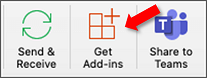
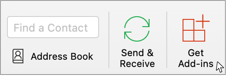
Add All Apps option and update screenshots

diff --git a/docs/outlook/sideload-outlook-add-ins-for-testing.md b/docs/outlook/sideload-outlook-add-ins-for-testing.md
@@ -1,13 +1,13 @@
 ---
 title: Sideload Outlook add-ins for testing
 description: Use sideloading to install an Outlook add-in for testing without having to first put it in an add-in catalog.
-ms.date: 03/17/2022
+ms.date: 02/24/2023
 ms.localizationpriority: medium
 ---
 
 # Sideload Outlook add-ins for testing
 
-You can use sideloading to install an Outlook add-in for testing without having to first put it in an add-in catalog.
+Sideload your Outlook add-in testing without having to first put it in an add-in catalog.
 
 > [!IMPORTANT]
 > If your Outlook add-in supports mobile, sideload the manifest using the instructions in this article for your Outlook client on the web, Windows, or Mac, then follow the guidance in the **Testing your add-ins on mobile** section of the [Add-ins for Outlook Mobile](outlook-mobile-addins.md#testing-your-add-ins-on-mobile) article.
@@ -48,19 +48,22 @@ The process for sideloading an add-in in Outlook on the web depends upon whether
 
 1. Go to [Outlook on the web](https://outlook.office.com).
 
-1. Create a new message.
+1. Select **Get add-ins** from the ribbon.
 
-1. Choose **...** from the bottom of the new message and then select **Get Add-ins** from the menu that appears.
+    ![The Get add-ins button is selected from the ribbon in Outlook on the web.](../images/outlook-sideload-ribbon-web.png)
 
-    ![Message compose window in the new Outlook on the web with Get Add-ins option highlighted.](../images/outlook-on-the-web-new-get-add-ins.png)
+    > [!IMPORTANT]
+    > If you don't see **Get add-ins** in the ribbon, you may have the simplified ribbon layout enabled. To manage your add-ins, select the ellipsis button (`...`) from the ribbon. Then, select **Get Add-ins**.
+    >
+    > ![The Get Add-ins option is selected from the ellipsis button in Outlook on the web.](../images/outlook-sideload-simplified-ribbon-web.png)
 
 1. In the **Add-Ins for Outlook** dialog box, select **My add-ins**.
 
-    ![Add-ins for Outlook dialog box in the new Outlook on the web with My add-ins selected.](../images/outlook-on-the-web-new-my-add-ins.png)
+    ![The My add-ins option selected in the Add-Ins for Outlook dialog.](../images/outlook-sideload-my-add-ins-owa.png)
 
-1. Locate the **Custom add-ins** section at the bottom of the dialog box. Select the **Add a custom add-in** link, and then select **Add from file**.
+1. Locate the **Custom add-ins** section at the bottom of the dialog box. Select the **Add a custom add-in** link, and then select **Add from File**.
 
-    ![Manage add-ins screenshot pointing to Add from a file option.](../images/outlook-sideload-desktop-add-from-file.png)
+    ![The Add from File option is selected in the Custom Add-ins section.](../images/outlook-sideload-custom-add-in.png)
 
 1. Locate the manifest file for your custom add-in and install it. Accept all prompts during the installation.
 
@@ -70,15 +73,15 @@ The process for sideloading an add-in in Outlook on the web depends upon whether
 
 1. Choose the gear icon in the top-right section of the toolbar and select **Manage add-ins**.
 
-    ![Outlook on the web screenshot pointing to Manage add-ins option.](../images/outlook-sideload-web-manage-integrations.png)
+    ![The Manage add-ins option is selected in classic Outlook on the web.](../images/outlook-sideload-web-manage-integrations.png)
 
 1. On the **Manage add-ins** page, select **Add-Ins**, and then select **My add-ins**.
 
-    ![Outlook on the web store dialog with My add-ins selected.](../images/outlook-sideload-store-select-add-ins.png)
+    ![Outlook on the web add-ins dialog with My add-ins selected.](../images/outlook-sideload-my-add-ins.png)
 
-1. Locate the **Custom add-ins** section at the bottom of the dialog box. Select the **Add a custom add-in** link, and then select **Add from file**.
+1. Locate the **Custom add-ins** section at the bottom of the dialog box. Select the **Add a custom add-in** link, and then select **Add from File**.
 
-    ![Manage add-ins screenshot pointing to Add from a file option.](../images/outlook-sideload-desktop-add-from-file.png)
+    ![The Add from File option is selected in the Custom Add-ins section.](../images/outlook-sideload-custom-add-in.png)
 
 1. Locate the manifest file for your custom add-in and install it. Accept all prompts during the installation.
 
@@ -88,48 +91,53 @@ The process for sideloading an add-in in Outlook on the web depends upon whether
 
 1. Open Outlook 2016 or later on Windows or Mac.
 
-1. Select the **Get Add-ins** button on the ribbon.
+1. Depending on your Outlook client and version, select **Get Add-ins** or **All Apps** from the ribbon.
+
+    > [!NOTE]
+    > Starting in Outlook on Windows Version 2302 (Build 16215.10000), the **All Apps** button is used to manage your add-ins and access AppSource.
 
     # [Windows](#tab/windows)
 
-    ![Outlook on Windows ribbon pointing to the Get Add-ins button.](../images/outlook-sideload-desktop-windows.png)
+    ![The Get Add-ins button is selected in an older version of Outlook on Windows.](../images/outlook-sideload-win32-get-add-ins.png)
+
+    ![The All Apps button is selected in Outlook on Windows.](../images/outlook-sideload-win32-all-apps.png)
 
     # [Mac](#tab/mac)
 
-    ![Outlook on Mac ribbon pointing to the Get Add-ins button.](../images/outlook-sideload-mac-classic.png)
+    ![The Get Add-ins button is selected in Outlook on Mac.](../images/outlook-sideload-mac-classic.png)
 
     ---
 
     > [!IMPORTANT]
-    > If you don't see the **Get Add-ins** button in your version of Outlook, do one of the following:
+    > If you don't see **Get Add-ins** or **All Apps** in your version of Outlook, do one of the following:
     >
     > # [Windows](#tab/windows)
     >
-    > - If you configured your ribbon layout to Simplified Ribbon, select the ellipsis button (`...`) from the ribbon, then select **Get Add-ins**.
+    > - If you configured your ribbon layout to Simplified Ribbon, select the ellipsis button (`...`) from the ribbon. Then, depending on your Outlook version, select **Get Add-ins** or **All Apps**.
     >
-    >   ![Outlook on Windows pointing to the Get Add-ins button from the ellipsis button.](../images/outlook-sideload-simplified-ribbon.png)
+    >   ![The Get Add-ins or All Apps option is selected from the ellipsis button in Outlook on Windows.](../images/outlook-sideload-simplified-ribbon-windows.png)
     >
-    > - Select the **Store** button on the ribbon, if available.
+    > - Select **Store** from the ribbon, if available.
     >
-    > - Select the **File** menu, then select the **Manage Add-ins** button on the **Info** tab to open the **Add-ins** dialog in Outlook on the web. You can see more about the web experience in the previous section [Sideload an add-in in Outlook on the web](#outlook-on-the-web).
+    > - Select the **File** menu, then select **Manage Add-ins** from the **Info** tab to open the **Add-ins** dialog in Outlook on the web. To learn more about the web experience, see [Sideload an add-in in Outlook on the web](../outlook/sideload-outlook-add-ins-for-testing.md#outlook-on-the-web).
     >
     > # [Mac](#tab/mac)
     >
     > - Select the ellipsis button (`...`) from the ribbon, then select **Get Add-ins**.
     >
-    >   ![Outlook on Mac pointing to the Get Add-ins button from the ellipsis button.](../images/outlook-sideload-deskop-mac.png)
+    >   ![The Get Add-ins option is selected from the ellipsis button in Outlook on Mac.](../images/outlook-sideload-new-mac.png)
     >
-    > - Select the **Store** button on the ribbon, if available.
+    > - Select **Store** from the ribbon, if available.
     >
     > ---
 
-1. If there are tabs near the top of the dialog, ensure that the **Add-ins** tab is selected. Choose **My add-ins**.
+1. If there are tabs near the top of the dialog, ensure that the **Add-ins** tab is selected. Then, choose **My add-ins**.
 
-    ![Outlook 2016 store dialog with My add-ins selected.](../images/outlook-sideload-store-select-add-ins.png)
+    ![Outlook 2016 add-ins dialog with My add-ins selected.](../images/outlook-sideload-my-add-ins.png)
 
-1. Locate the **Custom add-ins** section at the bottom of the dialog. Select the **Add a custom add-in** link, and then select **Add from file**.
+1. Locate the **Custom add-ins** section at the bottom of the dialog. Select the **Add a custom add-in** link, and then select **Add from File**.
 
-    ![Store screenshot pointing to Add from a file option.](../images/outlook-sideload-desktop-add-from-file.png)
+    ![The Add from File option is selected in the Custom add-ins section.](../images/outlook-sideload-custom-add-in.png)
 
 1. Locate the manifest file for your custom add-in and install it. Accept all prompts during the installation.
 
@@ -137,7 +145,7 @@ The process for sideloading an add-in in Outlook on the web depends upon whether
 
 1. Open Outlook 2013 on Windows.
 
-1. Select the **File** menu, then select the **Manage Add-ins** button on the **Info** tab. Outlook will open the web version in a browser.
+1. Select the **File** menu, then select **Manage Add-ins** from the **Info** tab. Outlook will open the web version in a browser.
 
 1. Follow the steps in the [Sideload an add-in in Outlook on the web](#outlook-on-the-web) section according to your version of Outlook on the web.
 

diff --git a/docs/outlook/troubleshoot-outlook-add-in-activation.md b/docs/outlook/troubleshoot-outlook-add-in-activation.md
@@ -1,7 +1,7 @@
 ---
 title: Troubleshoot Outlook contextual add-in activation
 description: Possible reasons your add-in doesn't activate as you expect.
-ms.date: 10/07/2022
+ms.date: 02/24/2023
 ms.localizationpriority: medium
 ---
 
@@ -55,13 +55,11 @@ Any one of the Outlook rich clients can disable an add-in for performance reason
 > [!NOTE]
 > Only Outlook rich clients monitor resource usage, but disabling an add-in in an Outlook rich client also disables the add-in in Outlook on the web and mobile devices.
 
-Use one of the following approaches to verify whether an add-in is disabled.
+Check your list of installed add-ins to verify whether an add-in is disabled.
 
-- In Outlook on the web, sign in directly to the email account, then choose **Get Add-ins** from the ribbon.
+- For instructions on how to view your add-ins in Outlook on Windows or on Mac, see [Get an Office Add-in for Outlook](https://support.microsoft.com/office/1ee261f9-49bf-4ba6-b3e2-2ba7bcab64c8).
 
-- In Outlook on Windows, choose **More Apps** from the ribbon, then select **Get Add-ins**.
-
-- In Outlook on Mac, choose the ellipsis button (`...`) from the ribbon, then select **Get Add-ins**.
+- In Outlook on the web, select **Get Add-ins** from the ribbon. To learn more, see [Using add-ins in Outlook on the web](https://support.microsoft.com/office/8f2ce816-5df4-44a5-958c-f7f9d6dabdce).
 
 ## Does the tested item support Outlook add-ins? Is the selected item delivered by a version of Exchange Server that is at least Exchange 2013?
 
@@ -202,16 +200,19 @@ If you use an **ItemHasRegularExpressionMatch** activation rule, verify whether 
         ```vb
         ?ActiveExplorer.Selection.Item(1).HTMLBody
         ```
+
         - The plain text body of the message or appointment item selected in the Outlook explorer:
 
         ```vb
         ?ActiveExplorer.Selection.Item(1).Body
         ```
+
         - The HTML body of the message or appointment item opened in the current Outlook inspector:
 
         ```vb
         ?ActiveInspector.CurrentItem.HTMLBody
         ```
+
         - The plain text body of the message or appointment item opened in the current Outlook inspector:
 
         ```vb
@@ -248,7 +249,7 @@ This section applies to all activation rules that use regular expressions -- par
     |Item body is plain text|1.5 KB|3 KB|
     |Item body is HTML|3 KB|3 KB|
 
-- Time spent on evaluating all regular expressions of a read add-in for an Outlook rich client: By default, for each read add-in, Outlook must finish evaluating all the regular expressions in its activation rules within 1 second. Otherwise Outlook retries up to three times and disables the add-in if Outlook cannot complete the evaluation. Outlook displays a message in the notification bar that the add-in has been disabled. The amount of time available for your regular expression can be modified by setting a group policy or a registry key. 
+- Time spent on evaluating all regular expressions of a read add-in for an Outlook rich client: By default, for each read add-in, Outlook must finish evaluating all the regular expressions in its activation rules within 1 second. Otherwise Outlook retries up to three times and disables the add-in if Outlook cannot complete the evaluation. Outlook displays a message in the notification bar that the add-in has been disabled. The amount of time available for your regular expression can be modified by setting a group policy or a registry key.
 
    > [!NOTE]
    > If the Outlook rich client disables a read add-in, the read add-in is not available for use for the same mailbox on the Outlook rich client, and Outlook on the web and mobile devices.

diff --git a/docs/outlook/privacy-and-security.md b/docs/outlook/privacy-and-security.md
@@ -1,7 +1,7 @@
 ---
 title: Privacy, permissions, and security for Outlook add-ins
 description: Learn how to manage privacy, permissions, and security in an Outlook add-in.
-ms.date: 10/07/2022
+ms.date: 02/24/2023
 ms.localizationpriority: high
 ---
 
@@ -49,14 +49,18 @@ The following figure shows the four levels of permissions and describes the capa
 
 ## Optional connected experiences
 
-End users and IT admins can turn off [optional connected experiences in Office](/deployoffice/privacy/optional-connected-experiences) desktop and mobile clients. For Outlook add-ins, the impact of disabling the **Optional connected experiences** setting depends on the client but usually means that user-installed add-ins and access to the Office Store aren't allowed. Add-ins deployed by an organization's IT admin through [Centralized Deployment](/microsoft-365/admin/manage/centralized-deployment-of-add-ins) will still be available.
+End users and IT admins can turn off [optional connected experiences in Office](/deployoffice/privacy/optional-connected-experiences) desktop and mobile clients. For Outlook add-ins, the impact of disabling the **Optional connected experiences** setting depends on the client, but it usually means that user-installed add-ins and access to the AppSource aren't allowed. Add-ins deployed by an organization's IT admin through [Centralized Deployment](/microsoft-365/admin/manage/centralized-deployment-of-add-ins) will still be available.
 
-- Windows\*, Mac: The **Get Add-ins** button isn't displayed so users can no longer manage their add-ins or access the Office Store.
-- Android, iOS: The **Get Add-ins** dialog shows only admin-deployed add-ins.
-- Browser: Availability of add-ins and access to the Store are unaffected so users can continue to [manage their add-ins](https://support.microsoft.com/office/8f2ce816-5df4-44a5-958c-f7f9d6dabdce), including admin-deployed ones.
+|Client|Behavior when optional connected experiences is disabled|
+|-----|-----|
+|- Windows<sup>1</sup><br>- Mac|The **Get Add-ins** or **All Apps**<sup>2</sup> button isn't displayed, so users aren't able to manage their add-ins or access AppSource.|
+|- Android<br>- iOS|The **Get Add-ins** dialog shows only admin-deployed add-ins.|
+|Web browser|Availability of add-ins and access to AppSource are unaffected, so users can continue to [manage their add-ins](https://support.microsoft.com/office/8f2ce816-5df4-44a5-958c-f7f9d6dabdce) including admin-deployed ones.|
 
-  > [!NOTE]
-  > \* For Windows, support for this experience/behavior is available from Version 2008 (Build 13127.20296). For more details according to your version, see the update history page for [Microsoft 365](/officeupdates/update-history-office365-proplus-by-date) and how to [find your Office client version and update channel](https://support.microsoft.com/office/932788b8-a3ce-44bf-bb09-e334518b8b19).
+> [!NOTE]
+> <sup>1</sup> On Windows, support for this experience is available from Version 2008 (Build 13127.20296). For more details on your client version, see the update history page for [Microsoft 365](/officeupdates/update-history-office365-proplus-by-date) and how to [find your Office client version and update channel](https://support.microsoft.com/office/932788b8-a3ce-44bf-bb09-e334518b8b19).<br>
+>
+> <sup>2</sup> Starting in Outlook on Windows Version 2302 (Build 16215.10000), the **All Apps** button is used to manage add-ins and access AppSource.
 
 For general add-in behavior, see [Privacy and security for Office Add-ins](../concepts/privacy-and-security.md#optional-connected-experiences).
 

diff --git a/docs/concepts/privacy-and-security.md b/docs/concepts/privacy-and-security.md
@@ -95,11 +95,10 @@ The add-in platform addresses end users' privacy concerns in the following ways.
 
 - When sharing a document, users also share add-ins that have been inserted in or associated with that document. If a user opens a document that contains an add-in that the user hasn't used before, the Office client application prompts the user to grant permission for the add-in to run in the document. In an organizational environment, the Office client application also prompts the user if the document comes from an external source.
 
-- Users can enable or disable the access to AppSource. For content and task pane add-ins, users manage access to trusted add-ins and catalogs from the **Trust Center** on the host Office client (opened from **File** > **Options** > **Trust Center** > **Trust Center Settings** > **Trusted Add-in Catalogs**). In Outlook, users can manage add-ins by choosing **Get Add-ins**.
+- Users can enable or disable the access to AppSource. For content and task pane add-ins, users manage access to trusted add-ins and catalogs from the **Trust Center** on the host Office client (opened from **File** > **Options** > **Trust Center** > **Trust Center Settings** > **Trusted Add-in Catalogs**). In Outlook, access to manage add-ins depends on the user's Outlook client.
 
-  - In Outlook on Windows, select **More Apps** from the ribbon, then choose **Get Add-ins**.
-  - In Outlook on Mac, select the ellipsis button (`...`) from the ribbon, then choose **Get Add-ins**.
-  - In Outlook on the web, choose **Get Add-ins** from the ribbon.
+  - For instructions on how to manage add-ins in Outlook on Windows or on Mac, see [Get an Office Add-in for Outlook](https://support.microsoft.com/office/1ee261f9-49bf-4ba6-b3e2-2ba7bcab64c8).
+  - In Outlook on the web, select **Get Add-ins** from the ribbon. To learn more, see [Using add-ins in Outlook on the web](https://support.microsoft.com/office/8f2ce816-5df4-44a5-958c-f7f9d6dabdce).
 
   Administrators can also manage this access [by using group policy](/previous-versions/office/office-2013-resource-kit/jj219429(v=office.15)#using-group-policy-to-manage-how-users-can-install-and-use-apps-for-office).
 
